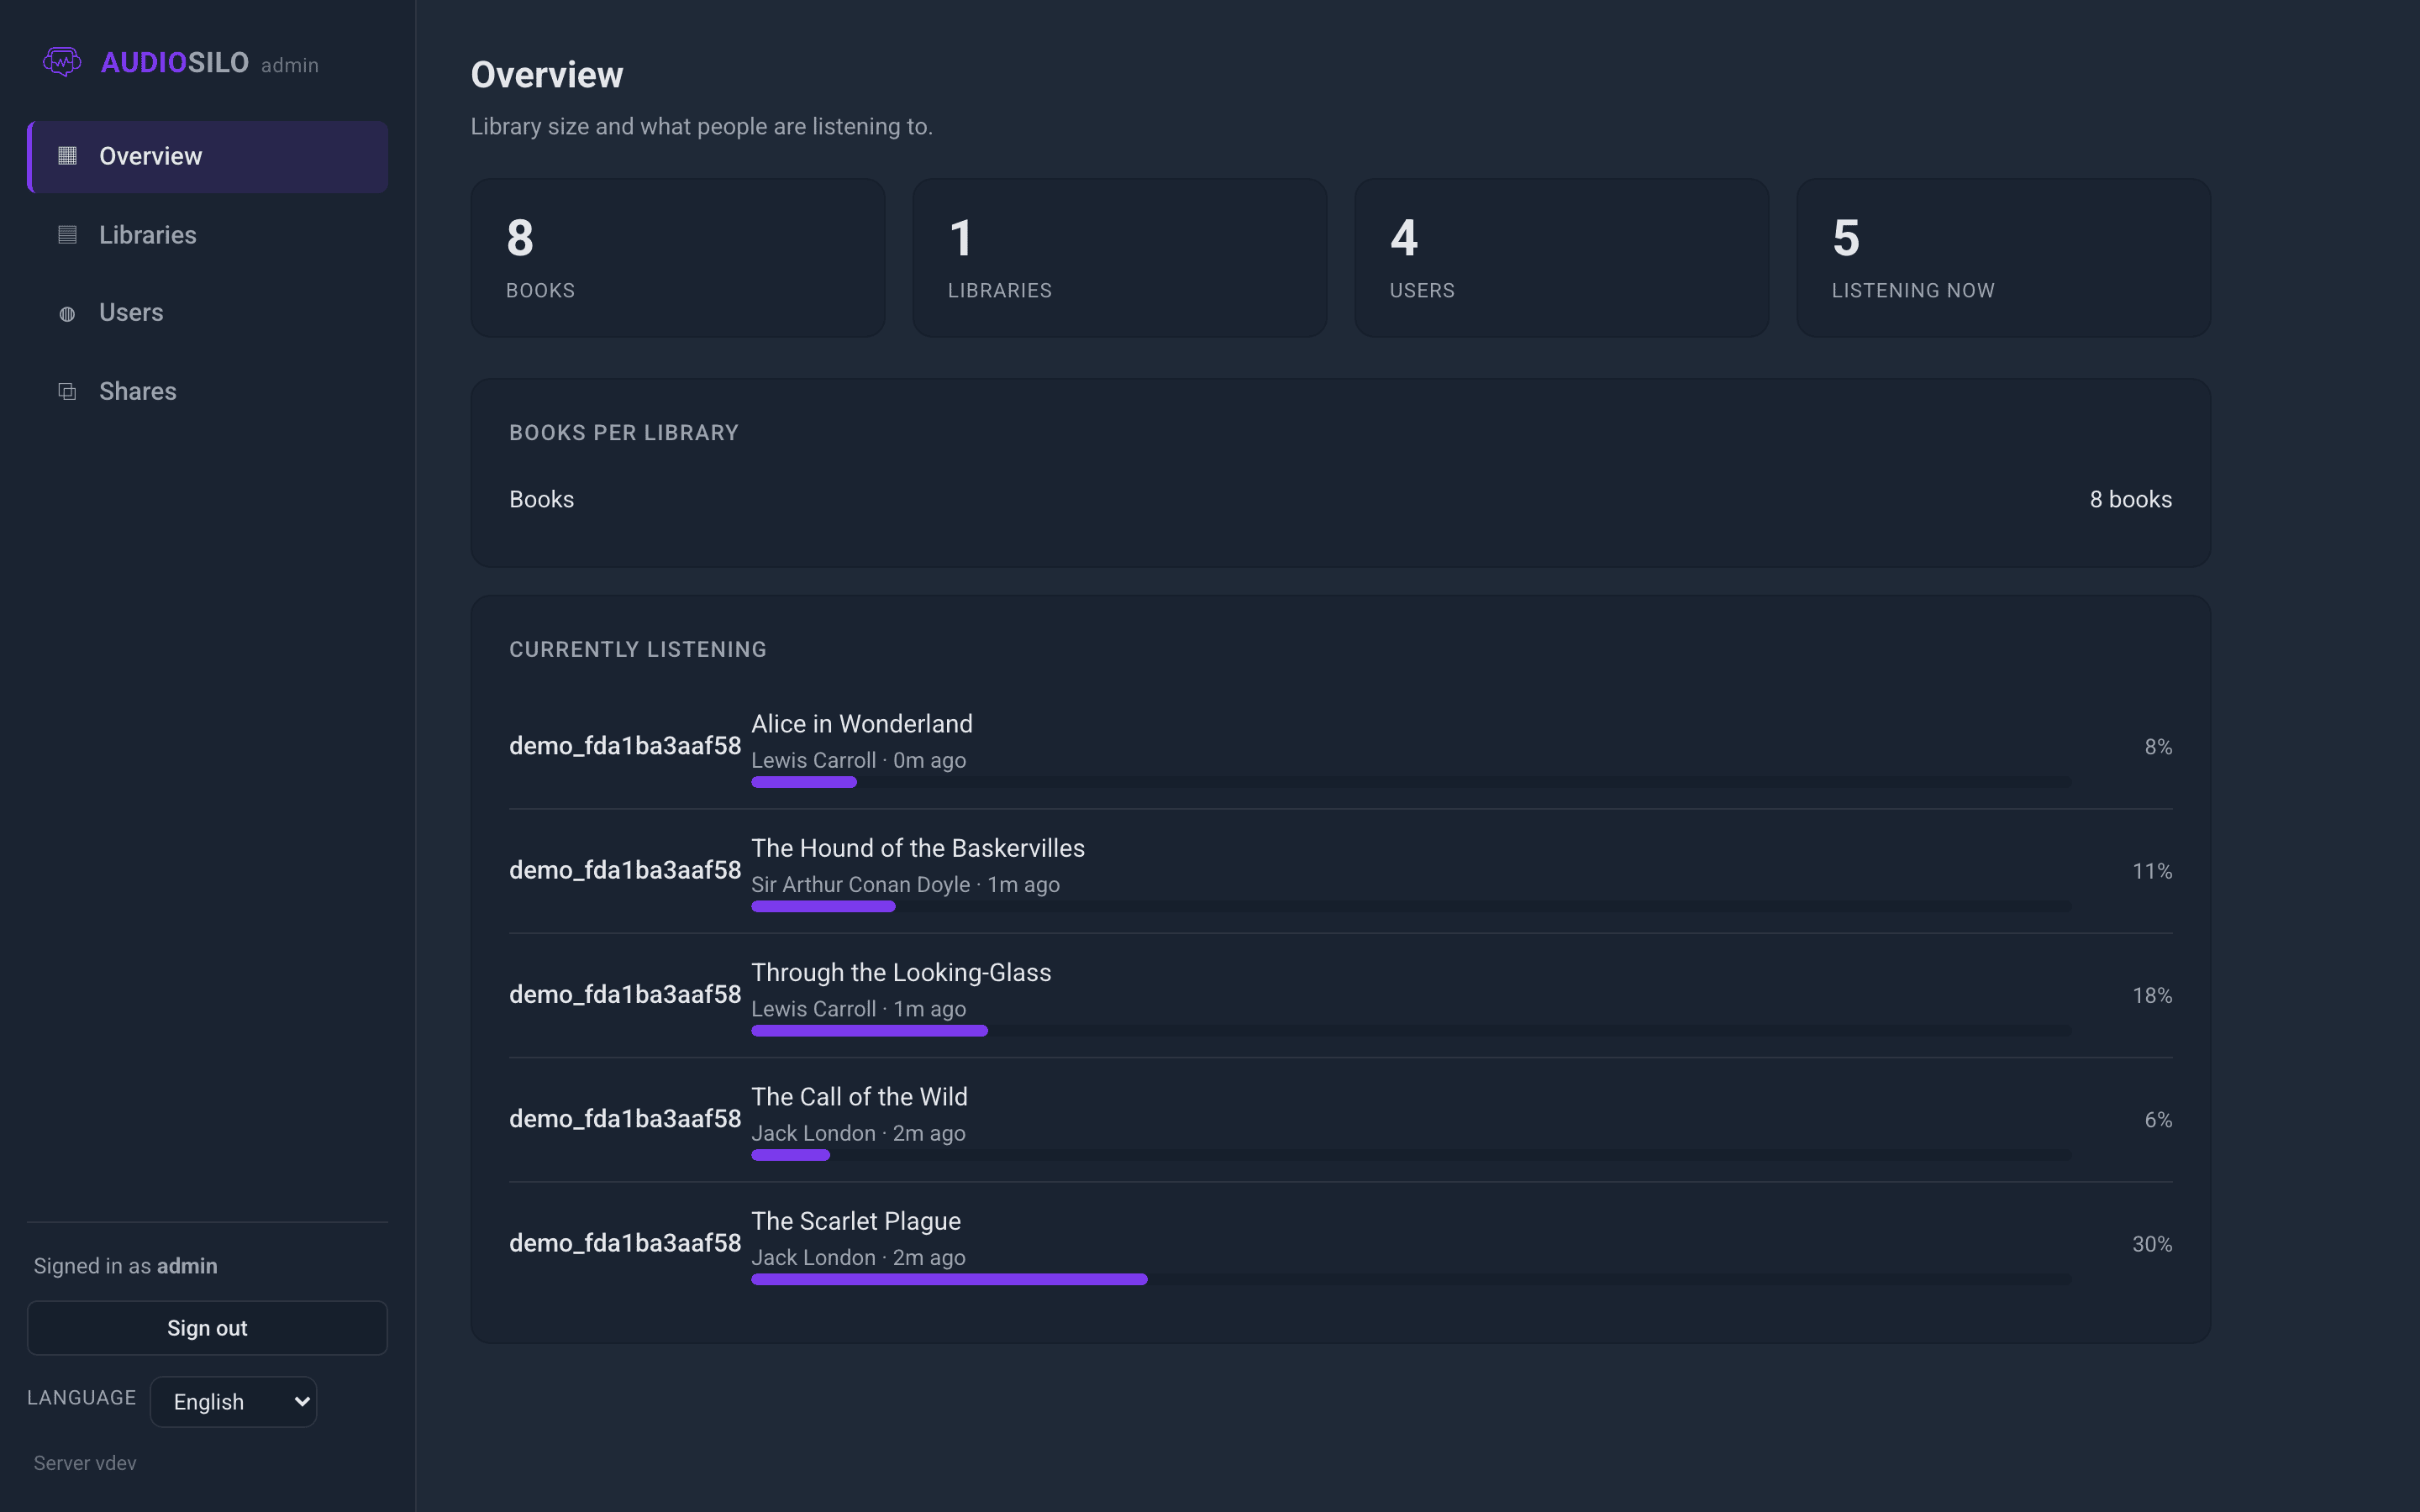
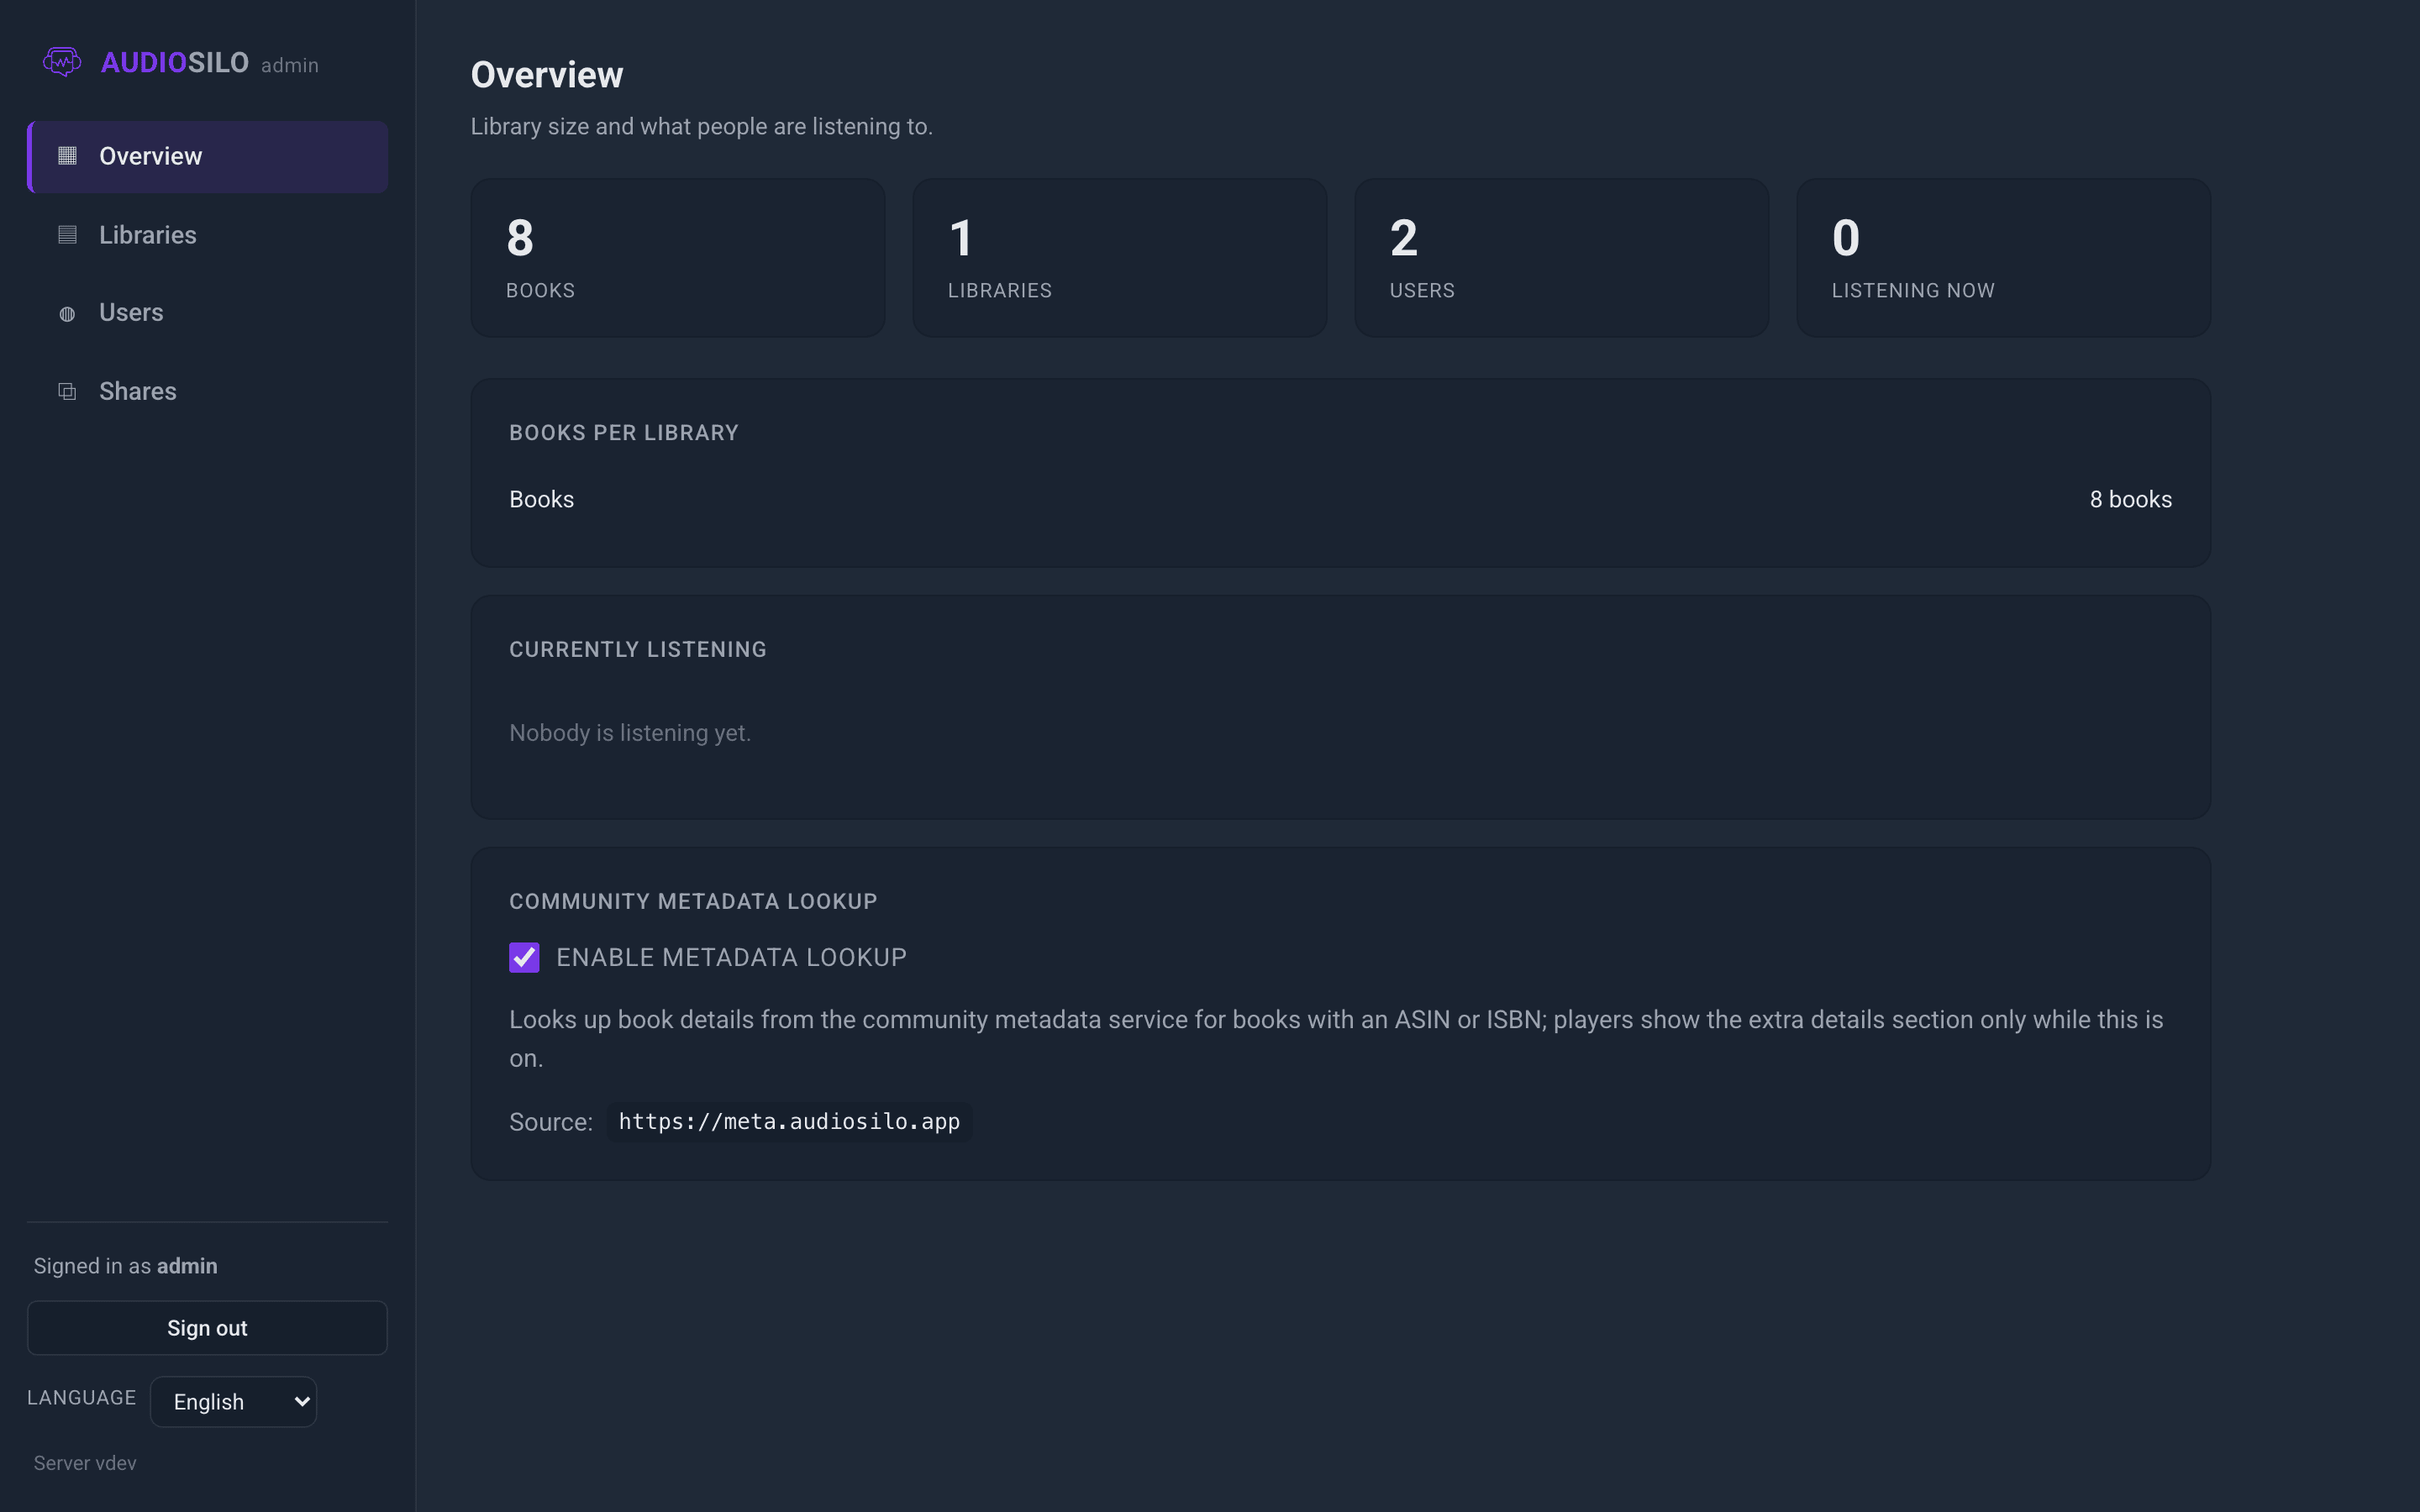
Document the admin metadata toggle
Admin settings endpoints in the API reference (envelope, PATCH
semantics, 400-when-unavailable), runtime-toggle notes in the server
configuration page, a Community metadata lookup subsection in the
console tour, and the browsing page now points at the console switch
instead of implying config-file-only. Regenerated the admin Overview
screenshot so it shows the new card.

diff --git a/docs-developers/server/api/reference.md b/docs-developers/server/api/reference.md
@@ -53,10 +53,13 @@ it the moment it pairs. `version` is stamped from the release tag (`"dev"` for l
 `transcode` is true only when ffmpeg is configured; `web_player` only when the
 `/web` mount is populated; `upload` and `websocket` are reserved for future
 phases and currently always false. `api_keys` is true on servers that support
-user-minted [personal API keys](#personal-api-keys). `metadata` is true when the
-server has [community metadata lookup](#get-apiv1librariesidmeta) configured
-(`metadata.enabled` and a `metadata.base_url`); clients gate the enriched-book
-section on it.
+user-minted [personal API keys](#personal-api-keys). `metadata` reflects the
+**runtime** state of [community metadata lookup](#get-apiv1librariesidmeta): it
+is true only when a valid `metadata.base_url` is configured **and** the lookup is
+switched on. An admin can flip it on or off at runtime via
+[`PATCH /api/v1/admin/settings`](#patch-apiv1adminsettings) (no restart), so this
+flag can change during a server's lifetime; clients gate the enriched-book
+section on it and should re-read it after reconnecting.
 
 ### `GET /healthz` · `GET /api/v1/healthz`
 
@@ -1313,6 +1316,56 @@ a cross-user "currently listening" feed (up to 200 rows, newest first; `title`/
   ]
 }
 ```
+
+## Admin: settings
+
+Runtime-toggleable server settings, surfaced in the console's **Overview**
+section. The envelope is a feature-keyed object so future settings can join it
+without reshaping the wire contract; today it carries only `metadata`.
+
+### `GET /api/v1/admin/settings`
+
+*Admin.* Returns the current runtime settings.
+
+```json
+{
+  "metadata": {
+    "enabled": true,
+    "base_url": "https://meta.audiosilo.app",
+    "available": true
+  }
+}
+```
+
+For `metadata`: `enabled` is the runtime on/off flag; `base_url` is the
+configured metadata service URL (empty when none is set); `available` reports
+whether the lookup **can** be enabled at all - true only when `base_url` is a
+valid absolute `http(s)` URL. When `available` is false the feature is
+permanently off until the server config gains a valid `base_url`, and any attempt
+to enable it is rejected. The live `metadata` [capability](#get-apiv1server) is
+`enabled && available`.
+
+### `PATCH /api/v1/admin/settings`
+
+*Admin.* Flips runtime settings and persists them to `config.yaml` (so the change
+survives a restart). Send only the fields you want to change - an **absent field
+is left unchanged**. Returns the same envelope as `GET` with the new state.
+
+```json
+{ "metadata": { "enabled": false } }
+```
+
+Setting `metadata.enabled` to `true` when the lookup is unavailable (no valid
+`metadata.base_url`) is a **`400`** - configure `metadata.base_url` first.
+Toggling the flag takes effect immediately across the server: it gates
+`GET /libraries/{id}/meta` and the `metadata` capability, so every connected
+player starts or stops showing the enriched-book section without a restart.
+
+| Status | Meaning |
+|---|---|
+| `200` | updated; body is the current settings envelope |
+| `400` | invalid body, or enabling metadata when no valid `metadata.base_url` is configured |
+| `500` | the settings could not be persisted (the in-memory change is rolled back) |
 
 ## Well-known
 

diff --git a/docs-users/admin/console-tour.md b/docs-users/admin/console-tour.md
@@ -66,7 +66,7 @@ button, the language selector, and the server's version number.
 ![The Overview section with stat cards, per-library counts and the listening feed](/img/screenshots/admin/overview.png)
 
 **Overview** is the console's home screen ("Library size and what people are
-listening to"). It has three parts:
+listening to"). It has four parts:
 
 ### Stat cards
 
@@ -99,6 +99,27 @@ A cross-user feed of listening activity. Each row shows:
 The feed shows saved listening progress as of when you opened the Overview -
 reopen the section to refresh (players report progress periodically while
 playing).
+
+### Community metadata lookup
+
+A single switch that turns the **community metadata lookup** on or off for the
+whole server. When it is on, books that can be matched (they carry an ASIN or
+ISBN) gain an extra "About this book" section in the player - a description,
+production details, and the series they belong to - drawn from the free,
+community-run catalogue at
+[meta.audiosilo.app](https://meta.audiosilo.app). See
+[About this book](../listening/browsing.md#about-this-book) for what listeners
+see.
+
+- Flipping the switch takes effect immediately for **everyone connected**, and
+  the choice is remembered across restarts.
+- Turning it **off** is a one-tap privacy switch: your server stops contacting
+  the metadata service at all, and the extra section disappears from every
+  player.
+- The card also shows the **Source** - the metadata service address your server
+  uses. If no service is configured, the switch is greyed out and a note explains
+  that a service address must be set in the server configuration first (see the
+  metadata setting in the [configuration reference](/developers/server/configuration)).
 
 :::note
 The console holds no special powers of its own - every action it performs is

diff --git a/docs-developers/server/configuration.md b/docs-developers/server/configuration.md
@@ -119,12 +119,22 @@ off all outbound calls.
 
 | Key | Type / default | Meaning |
 |---|---|---|
-| `metadata.enabled` | bool, `true` | Turn the metadata lookup on. When `false`, the server makes **no outbound metadata calls**, `GET /libraries/{id}/meta` returns 404, and the `metadata` capability reports false so players hide the enriched-book section entirely |
+| `metadata.enabled` | bool, `true` | Turn the metadata lookup on. When `false`, the server makes **no outbound metadata calls**, `GET /libraries/{id}/meta` returns 404, and the `metadata` capability reports false so players hide the enriched-book section entirely. Seeds the initial state only - an admin can flip this at runtime (see below) |
 | `metadata.base_url` | string, `"https://meta.audiosilo.app"` | Base URL of the metadata service (the site is served at `/` and the API at `/api/v1`). **Must be an absolute `http`/`https` URL when metadata is enabled** |
 
-Turning it off is the one-key privacy switch: with `metadata.enabled: false`
-the server never contacts the metadata service, and every player connected to it
-stops showing the section (they gate on the `metadata` capability). Enrichment is
+`metadata.enabled` is **runtime-toggleable**: an admin can switch the lookup on
+or off from the console's **Overview** section (or via
+[`PATCH /admin/settings`](api/reference.md#patch-apiv1adminsettings)) with no
+restart, and the change is **persisted back to `config.yaml`**. The YAML value
+and `AUDIOSILO_METADATA_ENABLED` only **seed** the initial state at startup; the
+admin toggle is the durable source of truth thereafter. `metadata.base_url`
+stays config-only - it defines whether the feature is *available* at all (a valid
+absolute `http(s)` URL), and the toggle can only enable the lookup when a valid
+base URL is set.
+
+Turning it off is the one-key privacy switch: with the lookup disabled the server
+never contacts the metadata service, and every player connected to it stops
+showing the section (they gate on the `metadata` capability). Enrichment is
 strictly additive and cached - a slow or unreachable service degrades to no
 section, never a broken page.
 

diff --git a/docs-users/listening/browsing.md b/docs-users/listening/browsing.md
@@ -59,7 +59,7 @@ Some books show an extra section below the chapters with more about the title:
 - A **More in this series** row - other books in the same series, each opening its page on the metadata site so you can see what to read next.
 - A **View on AudioSilo Meta** link to the book's full entry.
 
-This information comes from the **AudioSilo community metadata database** at [meta.audiosilo.app](https://meta.audiosilo.app), a free, community-run catalogue of audiobook details. It appears only when the book can be matched (it carries an ASIN or ISBN) and your server has the metadata lookup switched on. If a book has no extra section, it simply isn't matched or your admin has turned the feature off - nothing else on the page changes. A server admin can disable the lookup entirely, in which case no book shows this section (see the metadata setting in the [configuration reference](/developers/server/configuration)).
+This information comes from the **AudioSilo community metadata database** at [meta.audiosilo.app](https://meta.audiosilo.app), a free, community-run catalogue of audiobook details. It appears only when the book can be matched (it carries an ASIN or ISBN) and your server has the metadata lookup switched on. If a book has no extra section, it simply isn't matched or your admin has turned the feature off - nothing else on the page changes. A server admin can switch the lookup on or off at any time from the admin console's Overview section (see the [console tour](../admin/console-tour.md#community-metadata-lookup)); when it is off, no book shows this section.
 
 ## Search
 